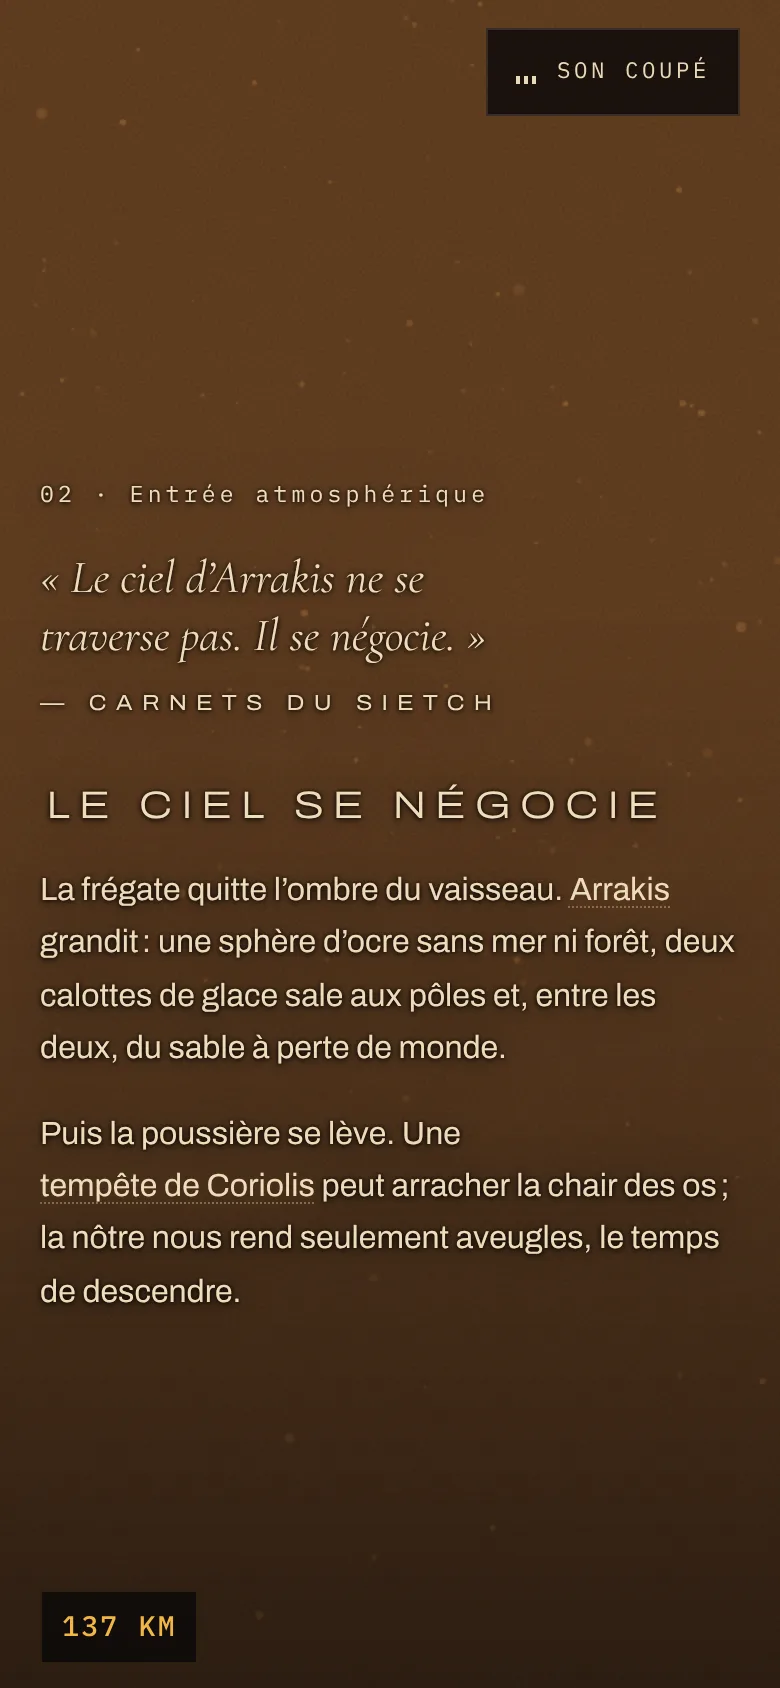
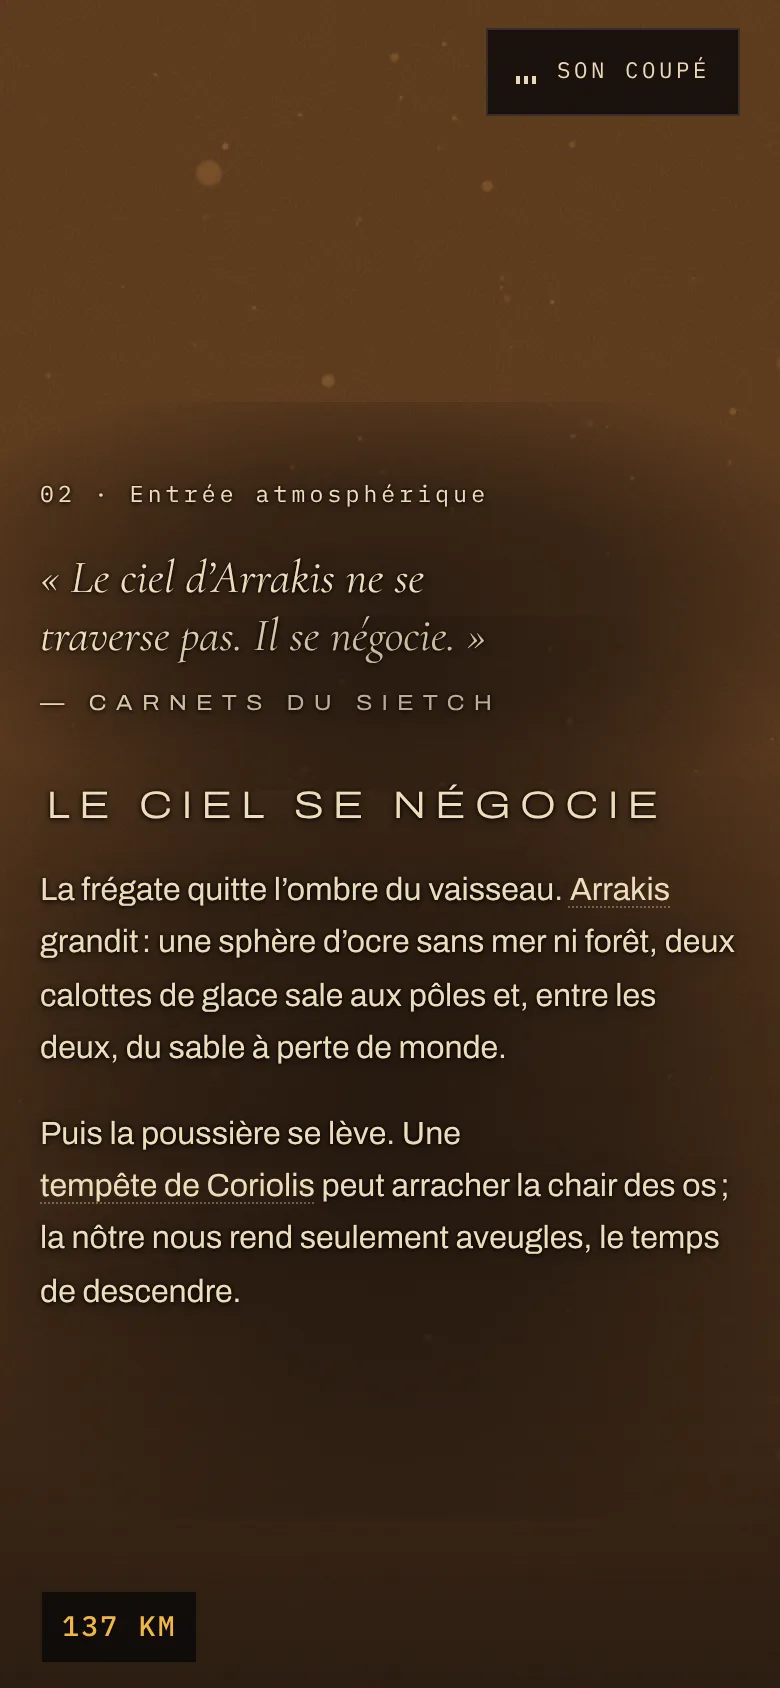
Bible : H22 précisée (tous les blocs ≥ 4,5 en plein jour), journal de clôture C2 ; captures c2 refaites (entrée, désert, épice)
Claude-Session: https://claude.ai/code/session_01TmTFqFyVjB4u53bqWWJJJg

Changed region(s): [[0.0923, 0.2464, 0.9231, 0.7701], [0.2462, 0.0924, 0.2769, 0.1232]]

diff --git a/docs/BIBLE.md b/docs/BIBLE.md
@@ -100,6 +100,8 @@ g) Ciel réel : selon l'heure locale, jour écrasant, crépuscule, nuit aux deux
 
 - **H22 — Lisibilité en plein jour après le nouveau héro (C2, fin de chantier).** Mesure `scripts/diag-contraste.mjs` (ciel de jour, sans compter le halo) après la fusion du long-courrier : héro bureau et téléphone à 12–14 (le vaisseau et la planète ne gênent aucun texte) ; téléphone entièrement ≥ 4,5 après +6 points de voile sur le tiers haut ; sur ordinateur, quatre blocs du désert oscillent entre 3,0 et 4,4 d'une mesure à l'autre selon la crête de dune qui passe sous le texte (le chemin de la caméra suit le creux de la vallée et dépend du temps) ; voile de la colonne gauche +6 points et halo un peu plus dense en réponse. Le halo n'est pas compté par la mesure : à juger à l'œil par Johan sur son téléphone en plein jour.
 
+- **H22, précision (18 h 20).** Correctif final : une ombre portée douce (dégradé radial aux bords fondus, `::before` de `.scene__head` et `.scene__body` dans les scènes sur monde rendu) derrière chaque bloc de texte, et la note mono du désert en sable plutôt qu'en couleur atténuée. Mesure de clôture en plein jour, sans le halo : **tous les blocs ≥ 4,5** sur ordinateur et téléphone (désert bureau : indice 5+, signature 8, paragraphes 9–11). Le voile fixe et le halo restent ; l'ombre n'est pas une boîte (aucun bord visible sur les captures).
+
 ## Chantiers futurs (NE PAS construire maintenant)
 
 - **Second site Dune pour la gamme Immersion**, plan « Hub d'abord » : l'accueil est le Sietch, et chaque porte mène à une page Films, Livres, Jeu, Fan art…
@@ -124,6 +126,8 @@ g) Ciel réel : selon l'heure locale, jour écrasant, crépuscule, nuit aux deux
 - 2026-10-18 — **C1, retour sans éclair** : au retour d'une page (/lexique, /mentions-legales) dans la même session, l'intro rendue par le serveur apparaissait un instant avant d'être retirée à l'hydratation. Le script d'amorçage de `app/layout.tsx` lit la mémoire de session avant le premier rendu et pose `data-intro="seen"` ; CSS `display: none`. Preuve `scripts/diag-intro.mjs`. Message du ver au-dessus de la plaque d'altitude sur téléphone.
 
 - 2026-10-18 — **C2 — Passes d'amélioration** (16 h 30 → 18 h 45, branches `feat/v1` et `claude/sietch-c1-refuge-fans-kd77dr` poussées ensemble, PR #1 toujours en brouillon, préversions Vercel construites à chaque push). Mené avec six sous-agents en parallèle sur des arbres de travail isolés (H15), intégrés, relus et testés par l'agent principal ; une revue adversariale (trois relecteurs, un réfutateur par constat) a confirmé neuf défauts mineurs, tous corrigés. **Lot 1, long-courrier** : feux de position ronds en nuanceur (rouge/vert de bord, blancs à éclats, ambre de travail, bouche de soute), coque à hiérarchie de panneaux et normales en espace monde, modules en quartiers, rails, collier d'amarrage, mâts ; quatre navettes qui entrent et sortent de la soute sur des boucles fermées ; sortie cinématographique (lueur de la bouche, lampes qui montent, lumière de la planète, poussière en suspension, grondement qui monte) ; cadrage bureau (fuseau en haut à droite, texte dégagé) et portrait (vaisseau dans le tiers supérieur, planète en bas) ; découverte : la soute n'était jamais vue de l'intérieur (progression de repos ≈ 0,29, H21). Captures `docs/captures/c2-hero/` (avant / après / final). **Lot 2, images** : les douze emplacements de `docs/medias.md` branchés (H18), `pnpm medias`, marche à suivre en trois étapes, 0 pixel de différence sans image. **Lot 3, performance** : détection WebGL déplacée au démarrage du monde (TBT ÷ 5), veille 20 s, polices sous-ensemblées et instanciées (130 → 70 ko préchargés, H20), feuilles CSS fondues (aucun avertissement de préchargement) ; LCP modélisé par Lighthouse toujours ≈ 3,8 s dans la session (modèle borné par les scripts évalués avant la première image du rendu logiciel, H19), LCP réel 0,42 s : à trancher par PageSpeed sur la préversion. **Lot 4, navigateurs** : WebKit et Firefox toujours injoignables (H13) ; pièges Safari corrigés avec sources (son au doigt sur `pointerup`, état `interrupted`, `-webkit-user-select`, `overscroll-behavior` de l'intro). **Lot 5, Sietch** : lexique explorable (recherche sans accent, filtres, compteur annoncé), guide de lecture interactif (trois questions, douze parcours), compte à rebours J−N de la Troisième Partie (bandeau et fiche), « Par où commencer » (jeu), « Vous êtes ici » (chronologie), carte avec vignettes quand les images existent, liens et dates revérifiés (ressortie des deux films le 11/11/2026, X et YouTube officiels du jeu, page HBO de la série, jeu croisé sans date). **Lot 6, partage** : image de partage régénérée sur le nouveau héro, icône redessinée (deux lunes sur les dunes) + icône Apple, page 404 dans l'ambiance (relevé de la frégate, épigraphe originale). **Lot 7, finitions** : relecture des textes, « long-courrier » en minuscule, typographie française des contenus (apostrophes courbes, espaces insécables), gras sémantique à 500. **Lot 8** : `docs/MISE-EN-LIGNE.md` (checklist, rien n'est fait). Contrôles : typecheck, lint, 16 tests unitaires, build, Playwright 20 tests + 2 ignorés (le test « ver au doigt » resserré : sa période dépassait la fenêtre de 4,5 s sous charge), console sans avertissement sur l'accueil et le lexique.
+
+- 2026-10-18 — **C2, lisibilité de clôture** : ombre douce derrière les blocs de texte des scènes rendues (H22) → mesure `diag-contraste` en plein jour : 0 bloc sous 4,5 (bureau et téléphone), contre 6 avant le nouveau héro et 1 à la fin de C1. Captures `docs/captures/c2/` refaites. Dernières préversions Vercel construites sans erreur.
 
 ## Reste à faire
 
